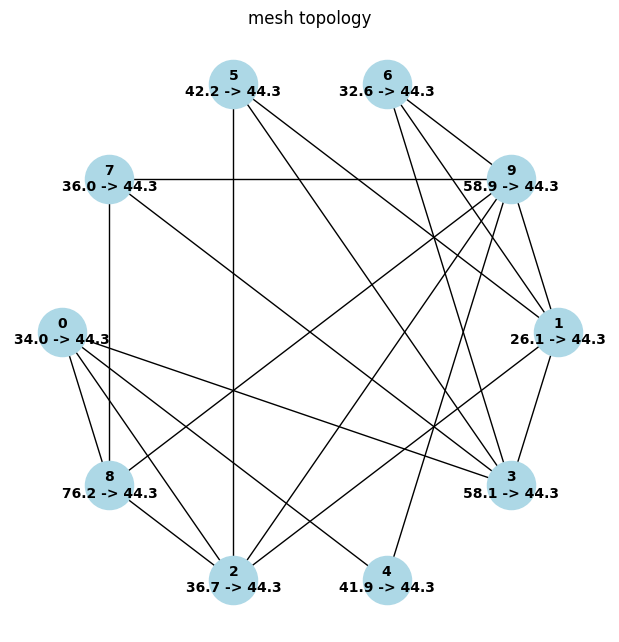
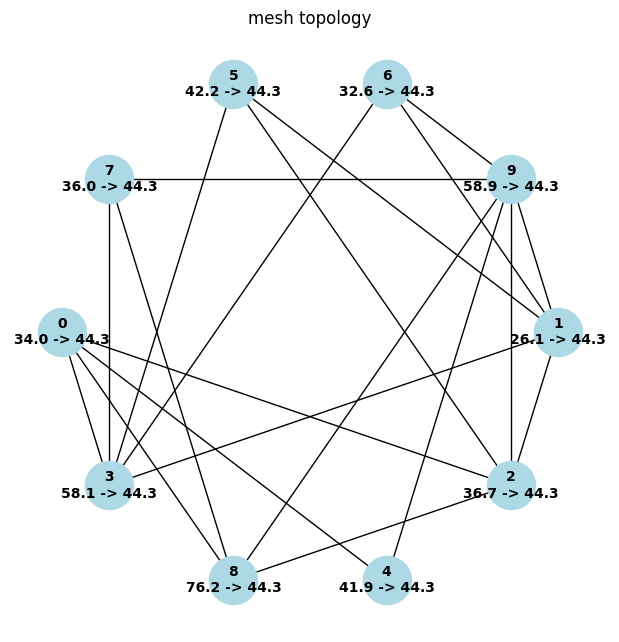
plot seems fine now

diff --git a/src/utils.py b/src/utils.py
@@ -8,22 +8,15 @@ def set_seed(x: int = 42):
     np.random.seed(x)
 
 
-def plot_convergence(
-    title, sync_history, async_history, true_avg, filename="img/comparison.png"
-):
-    sync_errors = avg_error(sync_history, true_avg)
-    async_errors = avg_error(async_history, true_avg)
-
-    plt.figure(figsize=(10, 6))
-
+def plot_convergence(title, sync_errors, async_errors, filename="img/comparison.png"):
     plt.figure(figsize=(10, 6))
     plt.plot(sync_errors, label="Synchronous Consensus")
     plt.plot(async_errors, label="Asynchronous Consensus")
 
     # plt.yscale("log")
     plt.xlabel("Iteration")
-    plt.ylabel("Error (MSE)")
-    plt.title(str(title))
+    plt.ylabel("Abs error")
+    plt.title(title)
     plt.grid(True, which="both", ls="--", alpha=0.7)
     plt.legend()
     plt.savefig(filename, bbox_inches="tight")
@@ -33,6 +26,7 @@ def plot_convergence(
 def avg_error(history, true_avg):
     errors = []
     for vals in history:
-        err = np.mean(abs(np.array(vals) - true_avg))
+        vals = np.array(vals, dtype=float)
+        err = np.mean(np.abs(vals - true_avg))
         errors.append(err)
     return errors

diff --git a/main.py b/main.py
@@ -8,7 +8,7 @@ np.random.seed(42)
 from src.consensus import async_consensus, sync_consensus
 from src.graph import Graph
 from src.secret_sharing import additive_secret_share_matrix
-from src.utils import plot_convergence
+from src.utils import avg_error, plot_convergence, avg_error
 
 
 def main():
@@ -29,7 +29,7 @@ def main():
     g.assign_initial_values(20, 80)
     additive_secret_share_matrix(g)
 
-    true_avg = np.mean([n.initial_val for n in g.nodes])
+    true_avg = np.mean([n.val for n in g.nodes])
     print(
         f"Graph Topology: {args.top}, Nodes: {args.nodes}, True Average: {true_avg:.4f}"
     )
@@ -55,9 +55,8 @@ def main():
 
     plot_convergence(
         "Additive secret sharing",
-        sync_history,
-        async_history,
-        true_avg,
+        avg_error(sync_history, true_avg),
+        avg_error(async_history, true_avg),
         filename=outfile,
     )
 

diff --git a/src/consensus.py b/src/consensus.py
@@ -11,7 +11,7 @@ def sync_consensus(graph: Graph, eps=0.1, max_iters=2000, tol=tol):
     x = np.array([n.val for n in graph.nodes])
     history = [x.copy()]
 
-    for _ in range(max_iters):
+    for k in range(max_iters):
         x_next = np.dot(W, x)
         history.append(x_next.copy())
 
@@ -28,9 +28,12 @@ def sync_consensus(graph: Graph, eps=0.1, max_iters=2000, tol=tol):
 def weight_matrix(graph, eps=0.1):
     n = len(graph.nodes)
     A = np.zeros((n, n))
-    for node in graph.nodes:
+
+    for i, node in enumerate(graph.nodes):
         for neighbor in node.neighbors:
-            A[node.id, neighbor.id] = 1
+            j = graph.nodes.index(neighbor)
+            A[i, j] = 1
+            A[j, i] = 1
 
     # Degree matrix
     D = np.diag(np.sum(A, axis=1))
